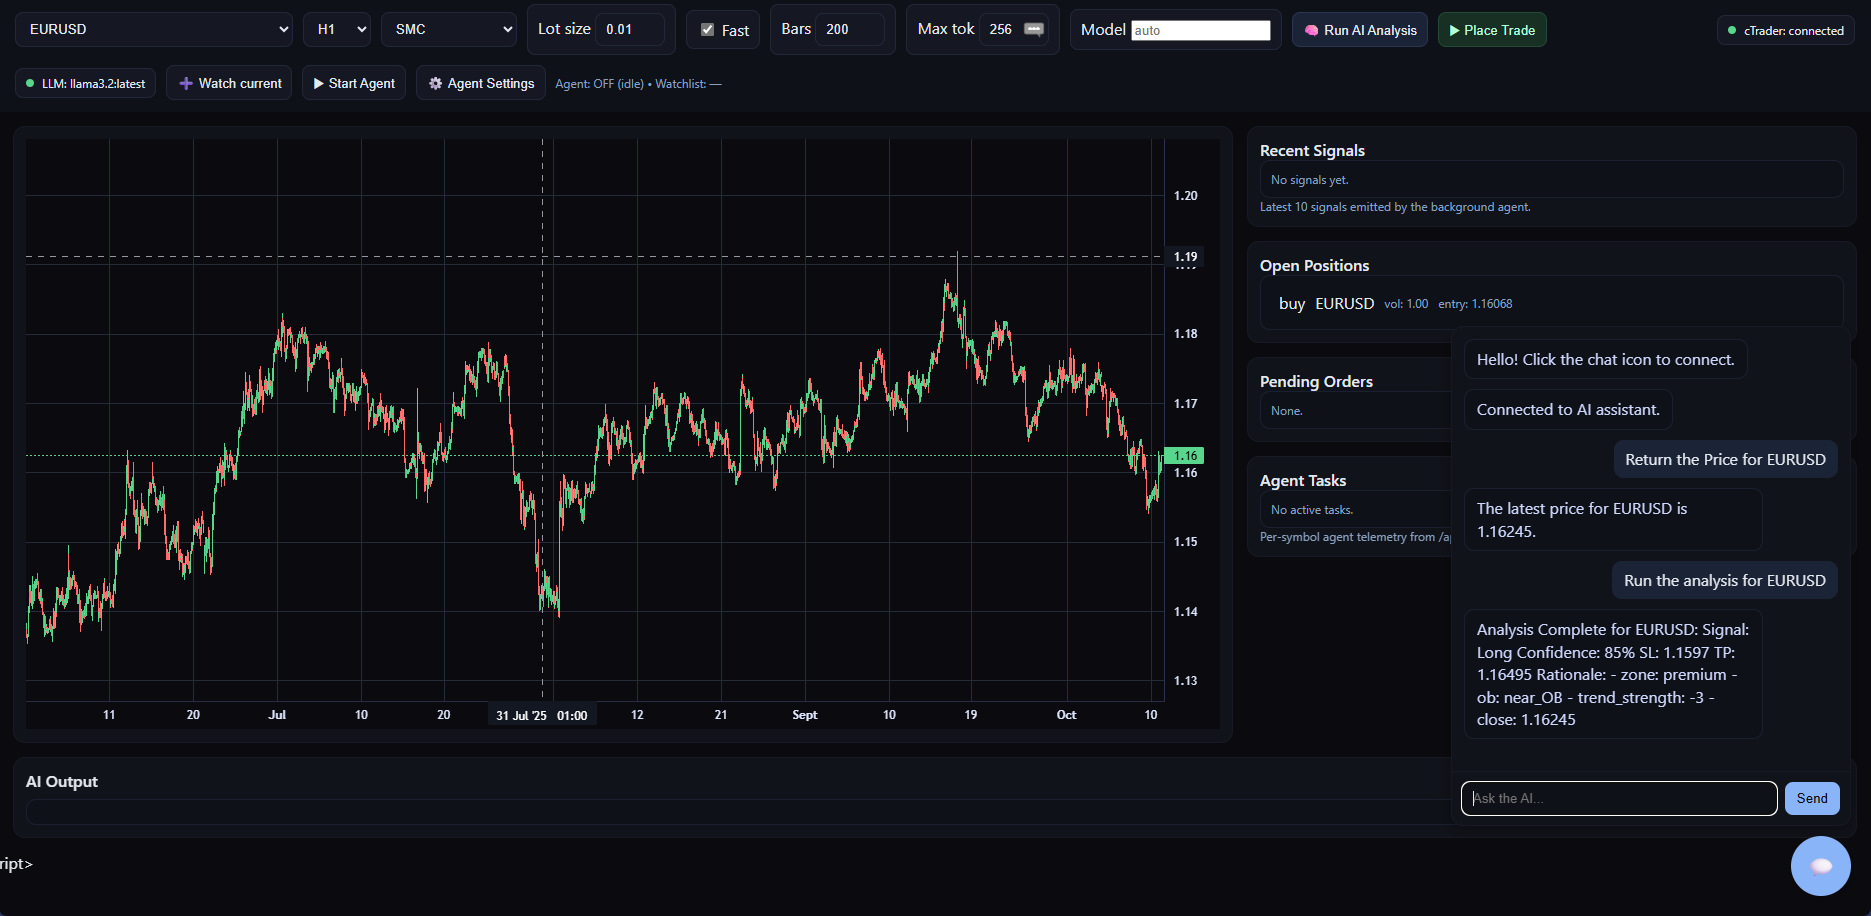
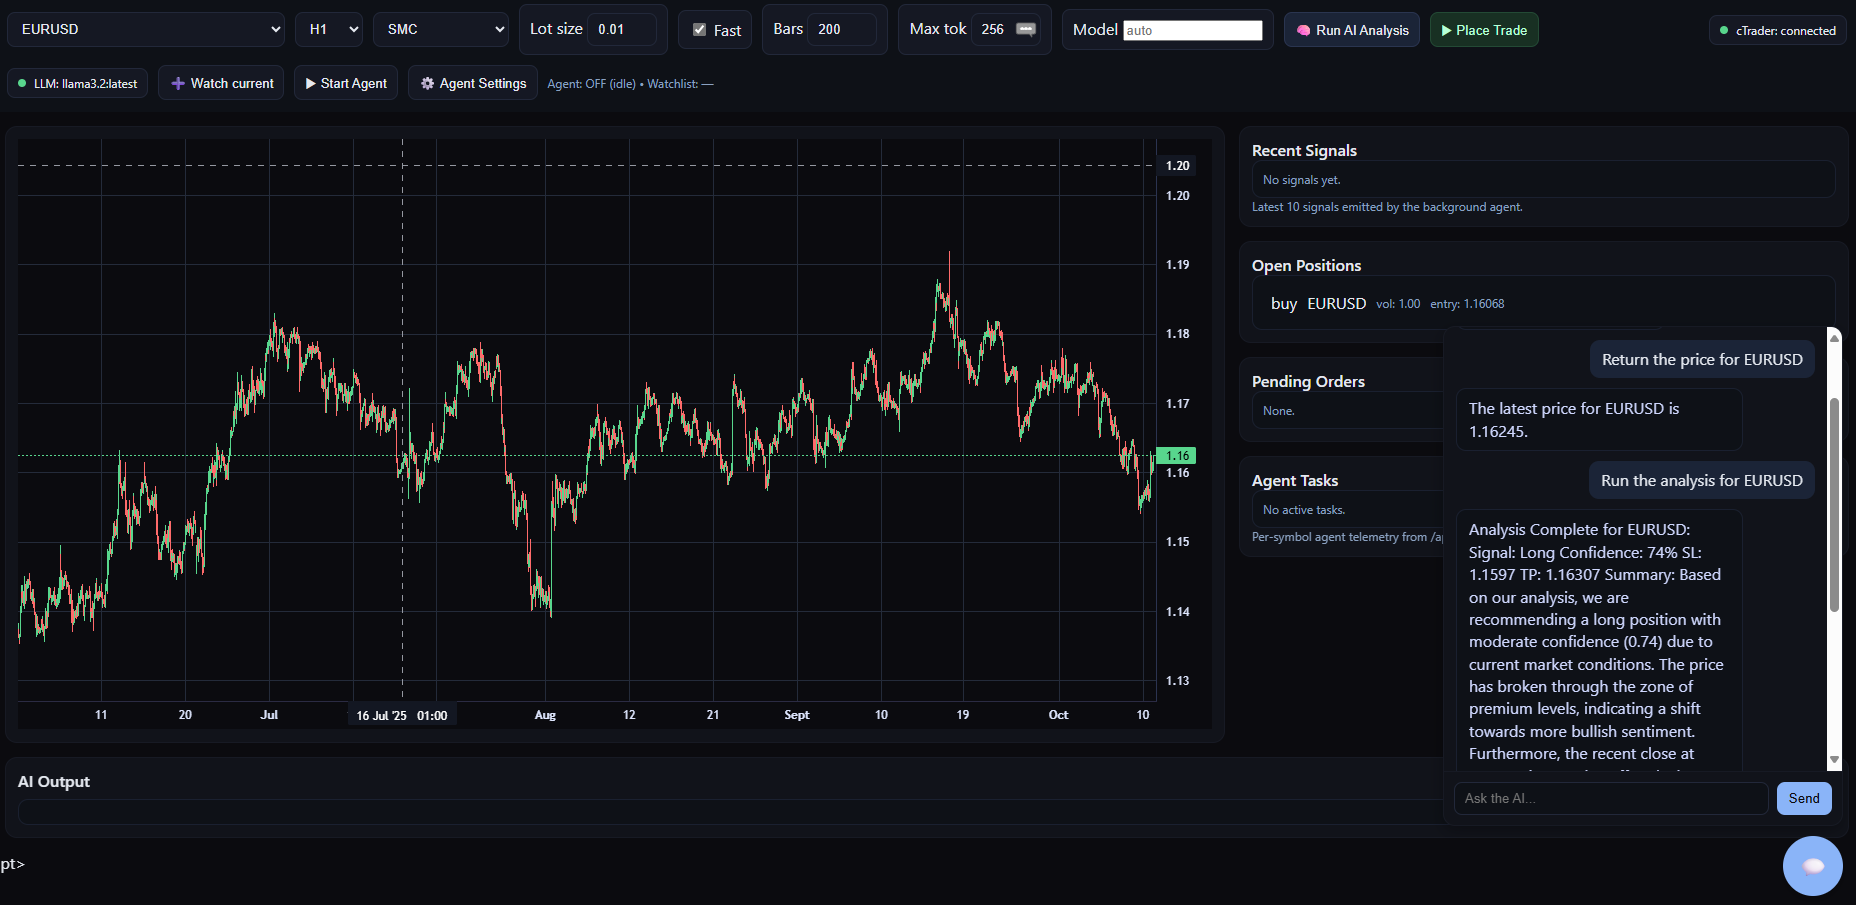
updated chatbot

diff --git a/backend/chat/service.py b/backend/chat/service.py
@@ -2,7 +2,7 @@ import logging
 import json
 from backend import data_fetcher
 from backend.strategy import get_strategy
-from backend.llm_analyzer import _ollama_generate, MODEL_DEFAULT
+from backend.llm_analyzer import _ollama_generate, MODEL_DEFAULT, TradeDecision
 
 async def _get_intent(message: str) -> dict:
     """Use an LLM to determine the user's intent and extract entities."""
@@ -30,6 +30,37 @@ Respond with ONLY a single JSON object in the following format and nothing else:
     except Exception as e:
         logging.error(f"Error getting intent from LLM: {e}")
         return {"intent": "error", "detail": str(e)}
+
+async def _summarize_analysis(analysis: TradeDecision) -> str:
+    """Use an LLM to generate a human-readable summary of the analysis."""
+    if not analysis.reasons:
+        return "The analysis did not provide specific reasons for its decision."
+
+    reasons_text = '\n'.join([f'- {r}' for r in analysis.reasons])
+    prompt = f"""You are a trading analyst. Your colleague has produced the following trading signal and technical reasons.
+
+Signal: {analysis.signal}
+Confidence: {analysis.confidence}
+SL: {analysis.sl}
+TP: {analysis.tp}
+
+Technical Reasons:
+{reasons_text}
+
+Your task is to write a concise, one-paragraph explanation of this trade idea for a report. Combine the technical reasons into a fluent, easy-to-understand narrative. Do not just list the reasons; synthesize them."""
+
+    try:
+        summary = _ollama_generate(
+            prompt=prompt,
+            model=MODEL_DEFAULT,
+            timeout=45, # Longer timeout for a more detailed response
+            json_only=False, # We want a text response
+            options_overrides={"num_predict": 128}
+        )
+        return summary
+    except Exception as e:
+        logging.error(f"Error summarizing analysis: {e}")
+        return "I was unable to generate a summary for the analysis."
 
 async def process_message(message: str) -> str:
     """Processes an incoming chat message and returns a response."""
@@ -73,7 +104,9 @@ async def process_message(message: str) -> str:
             # Format the result for the user
             sig = analysis_result.signal.replace('_', ' ').title()
             conf = f"{analysis_result.confidence * 100:.0f}%" if analysis_result.confidence is not None else "N/A"
-            reasons = '\n'.join([f'- {r}' for r in (analysis_result.reasons or [])])
+
+            # NEW: Generate a human-readable summary
+            summary = await _summarize_analysis(analysis_result)
 
             return f"""Analysis Complete for {symbol.upper()}:
 
@@ -82,8 +115,8 @@ Confidence: {conf}
 SL: {analysis_result.sl}
 TP: {analysis_result.tp}
 
-Rationale:
-{reasons}"""
+Summary:
+{summary}"""
 
         except Exception as e:
             logging.error(f"Chat: Error running analysis: {e}")
